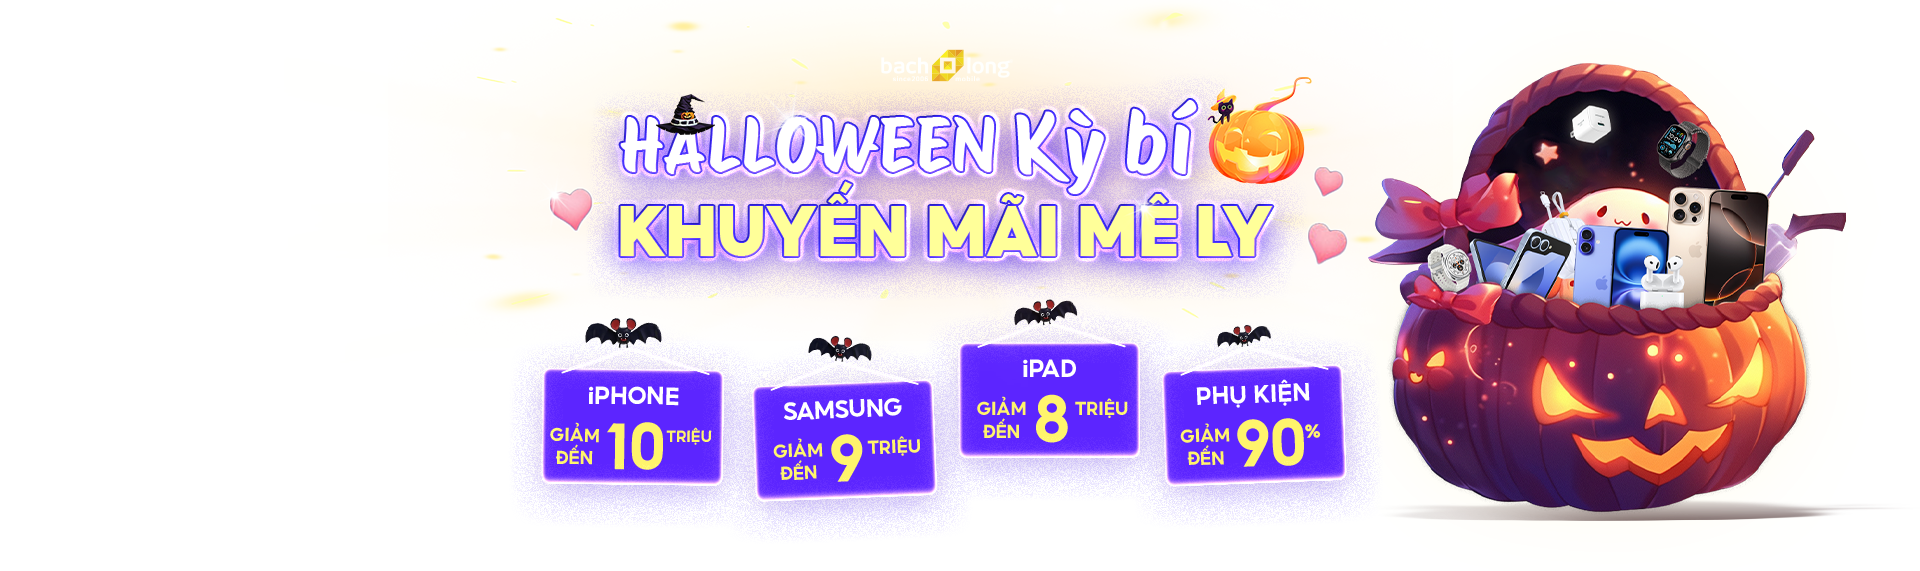
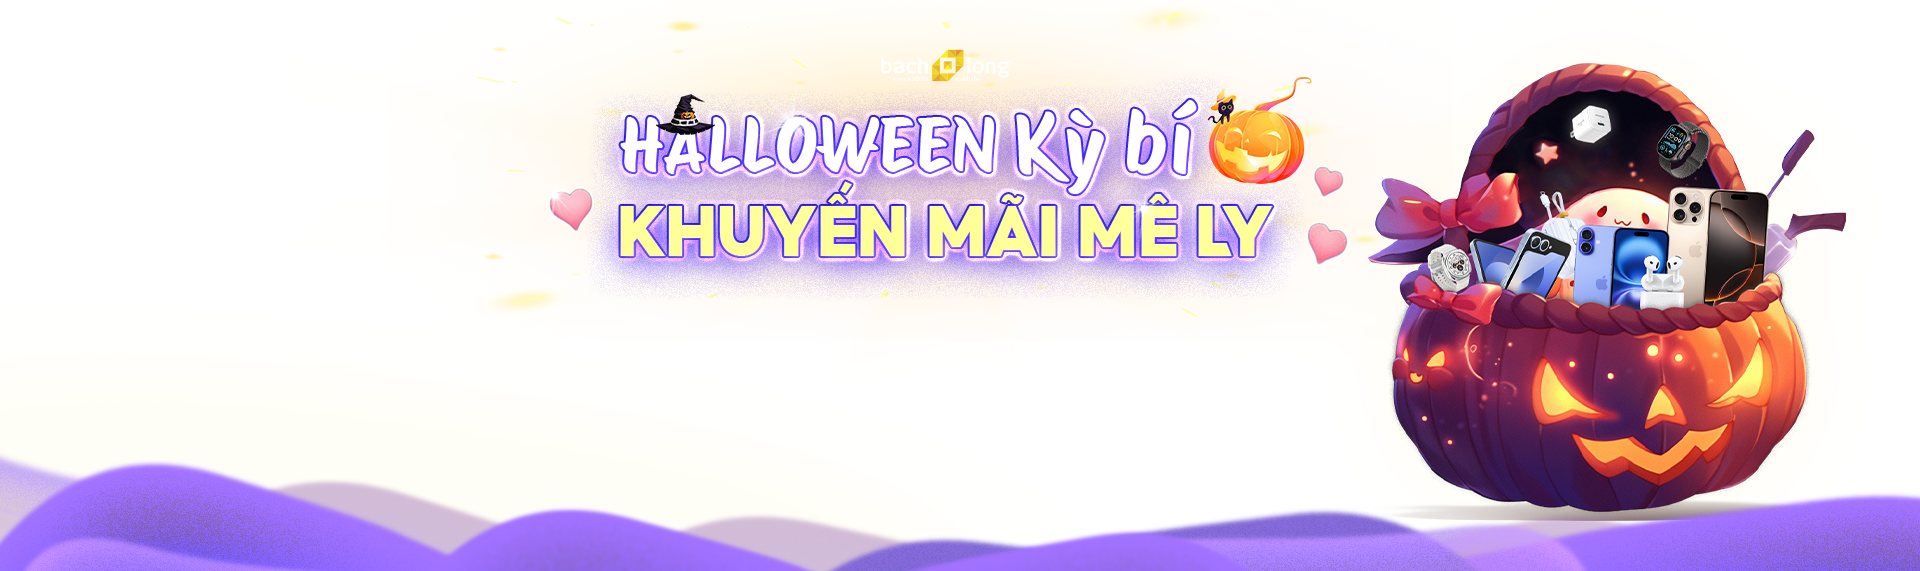
upload code

Changed region(s): [[0.0, 0.5061, 1.0, 1.0], [0.4062, 0.5954, 0.4688, 0.6252]]

diff --git a/src/components/ComponentPageHalloween/BannerHalloween/page.tsx b/src/components/ComponentPageHalloween/BannerHalloween/page.tsx
@@ -4,6 +4,10 @@ import Image from 'next/image';
 import BgHallo from '../../../../public/halloween/bg-hallo.png';
 import BgHalloMobile from '../../../../public/halloween/bg-hallo-mobile.png';
 import HeadHallo from '../../../../public/halloween/head-hallo.png';
+import TableBanner01 from '../../../../public/halloween/table-banner-01.png';
+import TableBanner02 from '../../../../public/halloween/table-banner-02.png';
+import TableBanner03 from '../../../../public/halloween/table-banner-03.png';
+import TableBanner04 from '../../../../public/halloween/table-banner-04.png';
 import Cloud1 from '../../../../public/halloween/cloud1.png';
 import Cloud2 from '../../../../public/halloween/cloud2.png';
 import Cloud3 from '../../../../public/halloween/cloud3.png';
@@ -16,6 +20,48 @@ const BannerHalloween = () => {
 		<div>
 			<div className='halloween-wrap'>
 				<div className='banner-hallo'>
+					<div className='banner-hallo-table'>
+						<div className='banner-hallo-table-item'>
+							<Image
+								src={TableBanner01}
+								width={1000}
+								height={1000}
+								alt='table-banner-01'
+								priority
+								className='banner-hallo-table-01'
+							/>
+						</div>
+						<div className='banner-hallo-table-item'>
+							<Image
+								src={TableBanner02}
+								width={1000}
+								height={1000}
+								alt='table-banner-02'
+								priority
+								className='banner-hallo-table-02'
+							/>
+						</div>
+						<div className='banner-hallo-table-item'>
+							<Image
+								src={TableBanner03}
+								width={1000}
+								height={1000}
+								alt='table-banner-03'
+								priority
+								className='banner-hallo-table-03'
+							/>
+						</div>
+						<div className='banner-hallo-table-item'>
+							<Image
+								src={TableBanner04}
+								width={1000}
+								height={1000}
+								alt='table-banner-03'
+								priority
+								className='banner-hallo-table-03'
+							/>
+						</div>
+					</div>
 					<Image
 						src={HeadHallo}
 						width={2000}

diff --git a/src/components/ComponentPageHalloween/BannerHalloween/banner-halloween.scss b/src/components/ComponentPageHalloween/BannerHalloween/banner-halloween.scss
@@ -47,7 +47,6 @@
 		1 100%
 	);
 }
-
 .halloween-wrap {
 	margin: 0;
 	padding: 0;
@@ -133,14 +132,34 @@
 
 	.banner-hallo {
 		position: absolute;
-		top: 5%;
+		top: 0;
 		right: 0;
-		z-index: 20;
+		z-index: 50;
 		width: 100%;
+		height: 100%;
 		@media screen and (max-width: 850px) {
 			z-index: 400;
 			top: 0;
 			position: relative;
+		}
+
+		&-table {
+			position: absolute;
+			top: 50%;
+			left: 48%;
+			display: flex;
+			transform: translate(-50%, 0);
+			z-index: 50;
+
+			&-item {
+				position: relative;
+				transition: transform 0.3s ease-in-out;
+				cursor: pointer;
+
+				&:hover {
+					transform: rotate(-5deg);
+				}
+			}
 		}
 
 		.head-hallo {

diff --git a/src/components/ComponentPageHalloween/HeaderHalloween/HeaderHalloween.tsx b/src/components/ComponentPageHalloween/HeaderHalloween/HeaderHalloween.tsx
@@ -72,6 +72,7 @@ function HeaderHalloween() {
 								</div>
 							))}
 						</div>
+						<button>Xem thể lệ</button>
 					</div>
 				</div>
 				<div className='HeaderHalloween-promotion-header'>6 đặc quyền mua hàng tại Bạch Long Mobile</div>

diff --git a/src/components/ComponentPageHalloween/HeaderHalloween/HeaderHalloween.scss b/src/components/ComponentPageHalloween/HeaderHalloween/HeaderHalloween.scss
@@ -105,6 +105,10 @@
 	}
 }
 
+.HeaderHalloween-time-line-card-container {
+	margin-bottom: 2.4rem;
+}
+
 .content-card {
 	padding: 10px;
 	display: block;
